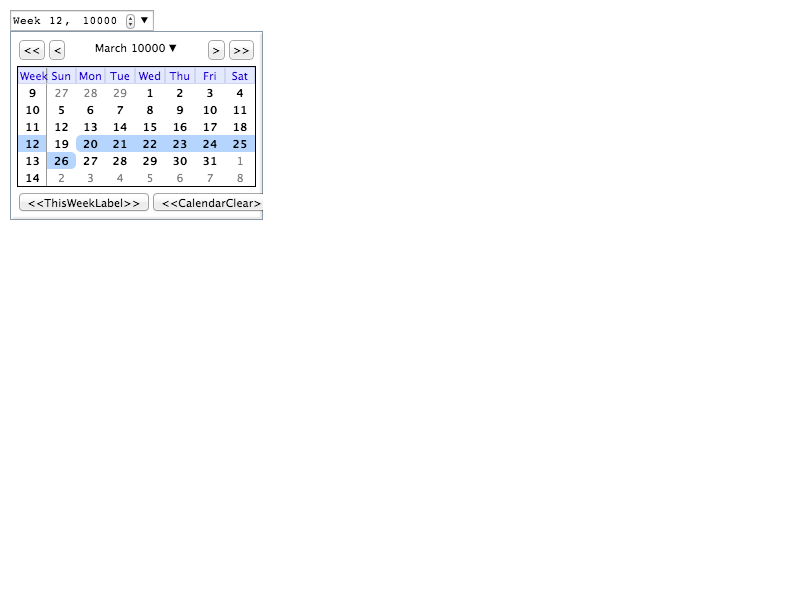
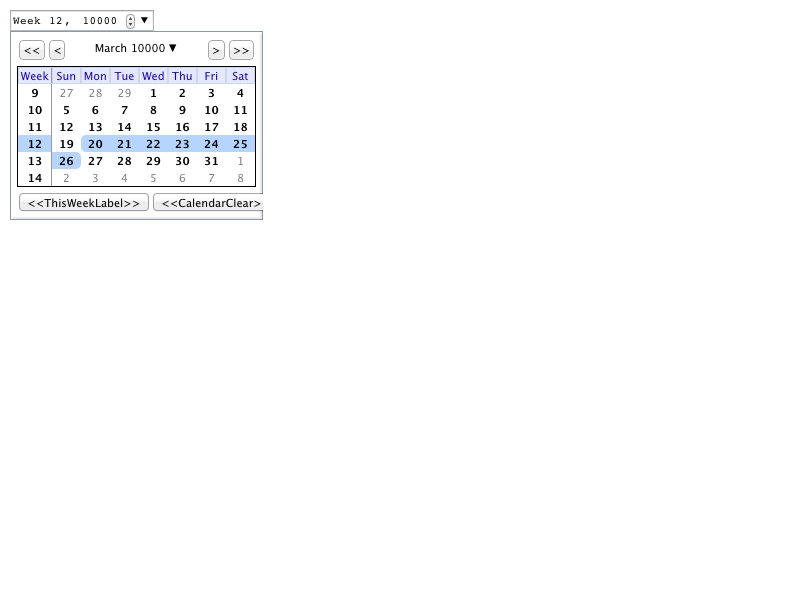
Week picker width is too small https://bugs.webkit.org/show_bug.cgi?id=102766
Reviewed by Kent Tamura.

Source/WebCore:

The width of week picker was too small because we were forgetting about
the week number column when calculating the desired width.

No new tests. Covered by week-picker-appearance*.html.

* Resources/pagepopups/calendarPicker.css:
(.week-mode .week-column): Needs to be table-cell.
* Resources/pagepopups/calendarPicker.js:
(CalendarPicker.prototype.fixWindowSize):

LayoutTests:

* platform/chromium-mac/platform/chromium/fast/forms/calendar-picker/week-picker-appearance-expected.png:
* platform/chromium-mac/platform/chromium/fast/forms/calendar-picker/week-picker-appearance-step-expected.png:
* platform/chromium/TestExpectations:

Identifier: 120941@main
git-svn-id: https://svn.webkit.org/repository/webkit/trunk@135274 268f45cc-cd09-0410-ab3c-d52691b4dbfc

Changed region(s): [[0.0312, 0.12, 0.3125, 0.3], [0.1875, 0.06, 0.2188, 0.09]]

diff --git a/Source/WebCore/Resources/pagepopups/calendarPicker.js b/Source/WebCore/Resources/pagepopups/calendarPicker.js
@@ -742,20 +742,24 @@ CalendarPicker.prototype.fixWindowSize = function() {
     var daysAreaElement = this._element.getElementsByClassName(ClassNames.DaysArea)[0];
     var headers = daysAreaElement.getElementsByClassName(ClassNames.DayLabel);
     var maxCellWidth = 0;
-    for (var i = 0; i < headers.length; ++i) {
+    for (var i = 1; i < headers.length; ++i) {
         if (maxCellWidth < headers[i].offsetWidth)
             maxCellWidth = headers[i].offsetWidth;
     }
+    var weekColumnWidth = headers[0].offsetWidth;
+    if (maxCellWidth > weekColumnWidth)
+        weekColumnWidth = maxCellWidth;
+    headers[0].style.width = weekColumnWidth + "px";
     var DaysAreaContainerBorder = 1;
     var yearMonthEnd;
     var daysAreaEnd;
     if (global.params.isCalendarRTL) {
         var startOffset = this._element.offsetLeft + this._element.offsetWidth;
         yearMonthEnd = startOffset - yearMonthRightElement.offsetLeft;
-        daysAreaEnd = startOffset - (daysAreaElement.offsetLeft + daysAreaElement.offsetWidth) + maxCellWidth * 7 + DaysAreaContainerBorder;
+        daysAreaEnd = startOffset - (daysAreaElement.offsetLeft + daysAreaElement.offsetWidth) + weekColumnWidth + maxCellWidth * 7 + DaysAreaContainerBorder;
     } else {
         yearMonthEnd = yearMonthRightElement.offsetLeft + yearMonthRightElement.offsetWidth;
-        daysAreaEnd = daysAreaElement.offsetLeft + maxCellWidth * 7 + DaysAreaContainerBorder;
+        daysAreaEnd = daysAreaElement.offsetLeft + weekColumnWidth + maxCellWidth * 7 + DaysAreaContainerBorder;
     }
     var maxEnd = Math.max(yearMonthEnd, daysAreaEnd);
     var MainPadding = 6; // FIXME: Fix name.

diff --git a/Source/WebCore/Resources/pagepopups/calendarPicker.css b/Source/WebCore/Resources/pagepopups/calendarPicker.css
@@ -269,7 +269,7 @@ body {
 }
 
 .week-mode .week-column {
-    display: block;
+    display: table-cell;
     border-right: 1px solid #999;
     padding-right: 1px;
 }
